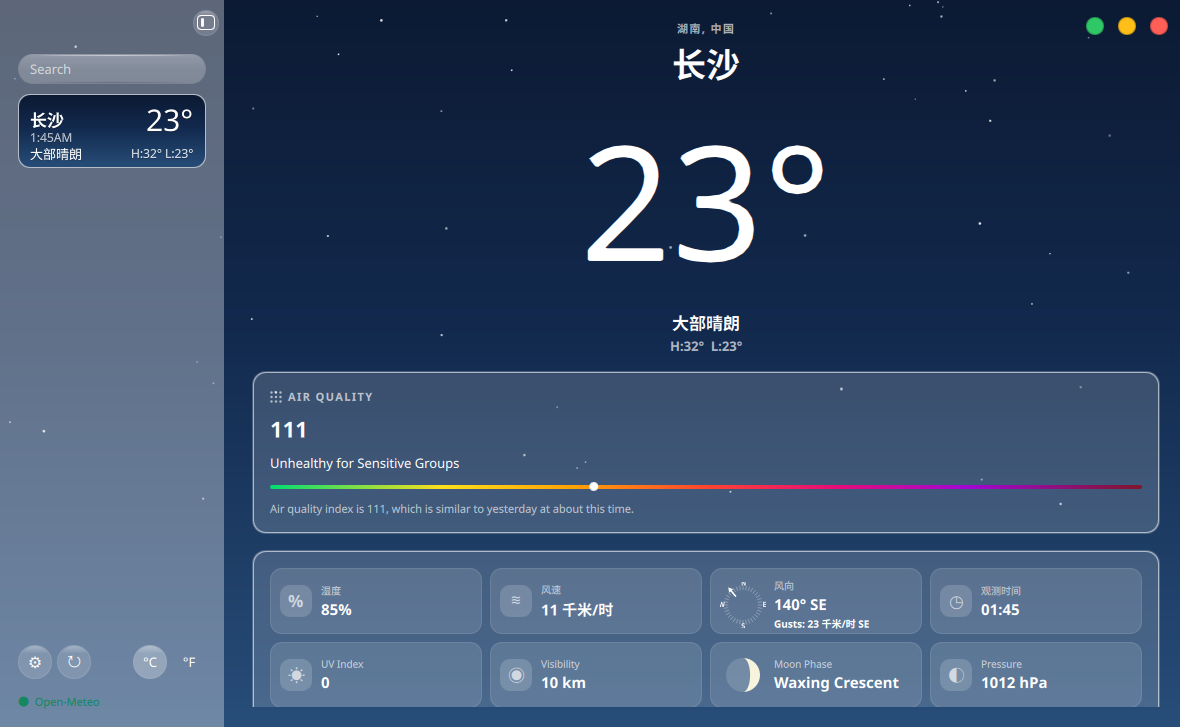
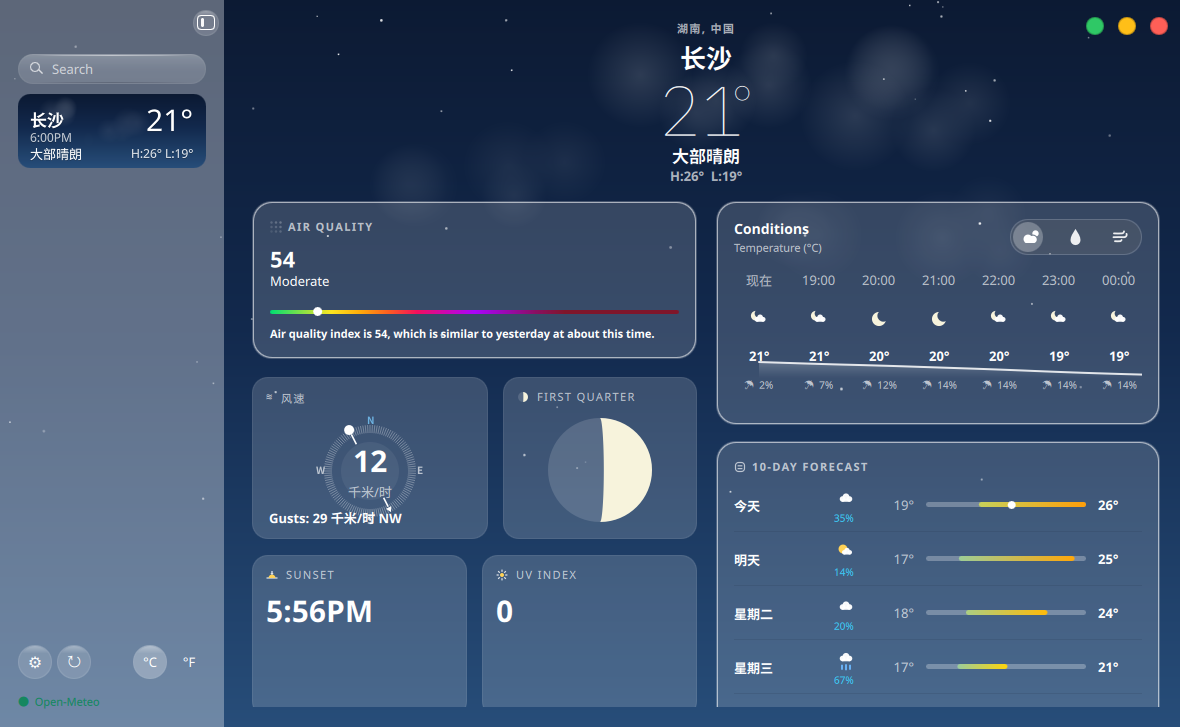
docs: round 41 进度与截图

diff --git a/docs/ui-weather/LEDGER.md b/docs/ui-weather/LEDGER.md
@@ -4,6 +4,10 @@
 参考实测色（814×498 主图采样）：天空 `#2961a7→#1469bc→#538ec9`（上→下，含云照片）；Conditions 卡 `#0057b2`；hero 文本 `#ffffff`；10天条渐变 青→黄→橙。
 
 ## 已改
+- **10 天卡头部→首行间距 −4px（本轮，前端，零 Go/C++/shared 改动，仍差 11 残差 b 收口）**：仍差 11 记载"头部→Today +4px"。本轮同口径复测（字体 1:1 依据：双方头部 caps 墨高均 8px，ipad 参考与截图同尺）：ref-ipad-small（1024×702）10 天卡（x264-546）头部墨底 y328 → Today 墨顶 y357 = **29px ink gap**；我方 patrol-1792318394（过体检闸 ✅）头部墨底 y471 → 今天墨顶 y505 = **33px**，+4px 残差确证。`apps/weather/qml/Main.qml:3012` dailyCard 头部 RowLayout `Layout.bottomMargin: 8→4`（注释 :3006 标明两侧实测依据）；spacing 6/fillWidth/visible/Canvas/Label/行 delegate/hover/渐变条零改动。
+  **实测**（本轮二进制截图 tmp/shots/hdrgap-1792318597.png 过体检闸 ✅ 1180×727，dev env + KOS_SCREENSHOT_DELAY_MS=2500）：今天墨顶 505→**501 精确位移 −4px**，ink gap 33→**30px**（目标 29，Δ1px 系 CJK 字形 AA 读数）；头部带 y462-471 自身零位移；目视 /tmp/z-hdrgap.png：头部与今天行间距收紧、无裁切无重叠。
+  **回归**（vs 改前 patrol-1792318394，2px 步进 diff>24）：变化 2097 采样**全部**落 10 天卡内 (717,441)-(1158,727)（行块整体 −4px 平移本体），卡外仅 9 稀疏采样（星空/时钟已知时变噪声）。qmllint 0 error（21 warning = 基线）。测试 Qt 6/6 绿、go test ok。本轮无动效改动，无帧差义务。
+  **残差（勘误仍差 11 残差 a）**：a) ~~头部 inset −7px~~ **记载符号存疑、本轮复测不成立**——ipad 参考头部 glyph 左 inset **12px**（x276−卡缘 x264）vs 我方 **18px**（x735−卡缘 x717），我方反而**更深** 6px；但参考中头部 glyph(12) 与行文字(10) 本就同列对齐，我方头部(18) 与今天行(18) 也同列对齐——单改头部 inset 会破坏对齐，需整卡 padding 联动（非原子，记此处不再单独立轮）；b) 字距总宽 +28px 系字体族差异（无 SF Pro），不动。
 - **侧栏城市卡补程序化云纹理（本轮，前端，零 Go/C++/shared/翻译改动，巡检轮）**：巡检截图（tmp/shots/patrol-1792317724.png 过体检闸 ✅ 1180×727）对照 ref-main 发现侧栏残差——参考 tile-sidebar（440×996）5 张城市卡**全部**带天气质感天空背景（Cupertino/Chicago 日间白云团、Antarctica 灰蓝、Cape Town 紫暮、Mumbai 夜空暗纹理；Pillow 采样卡面 cupertino_top (142,155,179)→bot (193,214,232)、mumbai (36,40,66)→(47,52,80)），我方卡是纯三段渐变无纹理。`apps/weather/qml/Main.qml:272-297` 新增 root 函数 `sidebarCardClouds(cardIndex, isDay)`（mulberry32(20261022+index*97) 固定种子按卡号生成 3 朵云×4 puff，cloudWidth 70-130/height=width×0.3，透明度 isDay ? 0.32−i×0.07 : 0.13−i×0.07）；:1110 delegate 新增 `required property int index` + `cardClouds` 绑定；:1148-1200 background Rectangle（radius 12/渐变/border 零改动）内新增唯一子项 `cardSkyTexture`（clip + Accessible.ignored，Repeater+Canvas 径向渐变 puff 与 nightClearCloudLayer :668-708 同款画法）。
   **门控裁定（首轮取证发现）**：首版门控 `isDay ? code>=2 : true` 在当前场景（code 1 大部晴朗）下纹理不渲染（改前后两帧 diff 全窗 maxdiff=2 = 纹理缺席实证；卡上"绒团"实为 21° 文字与渐变，(150,110)=(227,236,245) 系文字 AA）。因参考 5 卡全部有质感（含夜间）且主窗先例晴日也有云带，改为**恒显**（删 cardCloudy，Item 默认可见）。
   **实测**（本轮二进制截图 tmp/shots/cardcloud2-1792318220.png 过体检闸 ✅ 1180×727，dev env + KOS_SCREENSHOT_DELAY_MS=2500；此时段服务已翻夜态，顺带验证夜分支）：夜卡 (14,32,63) 上云峰 (49,65,91) = **Δ+35/+33/+28**（白@~0.14，行 110 逐 6px 剖面实测，文字 255 像素剔除）——与 ref Mumbai 卡纹理幅度（mumbai mid→bot Δ~11-14）同档略强；目视 /tmp/z-post2-card.png 3x：淡云在场、文字可读、无硬边；整窗夜景（星空/夜卡/夜空淡云）健康。日分支透明度更高（0.32 档）本时段未实拍（服务已翻夜），记外推待确认。
@@ -324,7 +328,7 @@
 8. ~~指标瓦片（白@0.12）与同级全宽卡（AQ/10 天，白@0.16）填充 alpha 不一致~~（**已做**，见已改——瓦片统一到 0.16/0.22、符号盒 0.20 保 +0.04 关系；日景材质方向差异另见外推待确认首条（**已执行**，见已改"昼夜分材质"））。
 9. ~~B.4 卡片 hover 只剩 10 天卡一处（指标容器实例随本轮容器移除删去）；瓦片级 hover（玻璃高光+抬升移到每块瓦片）为候选补法~~（**已做**，见已改——hover 同参数族已加到 WeatherMetric 组件 6 瓦 + directionTile/moonPhaseTile/sunsetTile，带帧差 MAE 证据；真实鼠标悬停未在真机点过，见外推待确认）。
 10. AQ 卡 rating 邻域残差（视觉冲击低，见已改“数字→rating 间距”条注）：rating cap 高 9px vs ref 折算 10.2（1px AA 内）；~~rating→渐变条 ink gap 残差~~（**已做**，见已改“+7px”——cap 顶口径 25→32px，目标 32.1；旧“~3px 残差”记载系 line-box 混算低估，本轮两口径复测推翻）。逐小时区“逐小时”区头+分段控件在卡外（ref 是 Conditions 卡内右上），系结构性版式适配，是否贴回卡内待用户裁定。
-11. ~~"7 天"区头仍是裸标签~~（**已做**，见已改"10 天卡头部移入卡内"——旧条目"ref-main (515,325) 起"依据被本轮复测推翻，实以 ref-ipad-small 为准；残差：头部 inset −7px / 头部→Today +4px / 字距总宽 +28px，均系既有 padding 与字体族差异，视觉冲击低）。
+11. ~~"7 天"区头仍是裸标签~~（**已做**，见已改"10 天卡头部移入卡内"——旧条目"ref-main (515,325) 起"依据被本轮复测推翻，实以 ref-ipad-small 为准；残差：~~头部→Today +4px~~（**已做**，见已改"10 天卡头部→首行间距 −4px"——ink gap 33→30px vs 参考 29）+ 头部 inset（勘误见该条残差 a：记载符号存疑，单改破对齐不立轮）+ 字距总宽 +28px（字体族差异，不动），视觉冲击低）。
 12. 瓦片 glyph 与头部文字的排布残差（视觉冲击低，见已改“glyph 去白方块底”条注）：ref 卡 glyph 与头部行内联（同基线、小尺寸），我方 glyph 垂直居中于左侧 32×32 区、头部/值在右列——瓦片化适配布局，去盒后已进一步贴近 ref，但排布形态仍未对齐；是否把 glyph 改为头部行内联待裁定（会动 6 瓦布局，非原子）。
 13. ~~**瓦片圆角偏小**~~（**已做**，见已改首条——weather 内 `tileRadius: 16` 显式覆盖 4 瓦站点，shared 未动；实测校准半径 ≈15±1 vs ref 15.3）。
 14. **空态残差（视觉冲击低，仅在无数据场景可见，见已改"空态文字可读性修复"条残差）**：a) ~~空态下 AQ 卡仍显示 "0"+全宽渐变条+白点+"similar to yesterday" 静态文案~~（**已做**，见已改"AQ 卡空态假数据门控"——hasAqi 门控数字/渐变条/白点/说明，空态卡只剩头部；"similar to yesterday" 有数据时仍显示，见外推待确认）；b) Conditions 卡空态卡体全空（逐小时区无空态提示）；c) 空态 glyph 保持 accent 淡蓝。参考图无空态形态，b)/c) 是否处理待用户裁定；a) 与文字可读性本体已修。
@@ -342,7 +346,7 @@
 - **SUNSET 大方卡底部内容无参考**：ref-main 的 SUNSET 卡被窗底裁切、只见头部+大号时间，Apple 原生卡下半（常见是日出/日落进度弧）不可见——本轮卡高 162 对齐 WIND/月相、底部留空带（~90px），未发明底部内容。若日后拿到完整参考卡需复核补形态（数据 `daily[0].sunrise` 已有，可支撑日出行/进度弧）。大号时间字号 30px 系与 WIND 速度数字同量级外推（ref 字形 14.4px@814 实测、墨高比自洽）；mini 日落 glyph 为旧 46px sunCanvas 的 12px 缩比手绘（Apple 原生 glyph 形态不可采样）。
 - **月相大卡无 Moonrise 底行**：ref 月相卡底部有 "Moonrise: 9:48PM" 行（ref-main y424-431 实测），但快照/Open-Meteo current 无月出月落字段，本轮按"参考图没有的数据不发明"未做——盘底→卡底留 17px 空带（即原底行位置）。若要补需后端本地天文计算（日出日落 Open-Meteo daily 已有，月出需自行算，工程量大）或另找数据源，待用户裁定优先级。月亮盘为程序化平涂相位（cream #f7f3dc + 白 0.14 暗面），非参考照片质感（陨石坑纹理）——既有外推延续。
 - **popup Gusts 副行观感未实拍 + UV/Visibility/moonPhase 无处安放**：shell 天气弹窗跑在 Quickshell Wayland 层（AnimatedPopupWindow），无法独立离屏截图——本轮按 shell 轮先例（WeatherService moonPhase 轮）以静态契约测试为证，Gusts 副行在真机弹窗中的观感（副行是否与 divider 贴得太近、"Gusts: 22 km/h" 本地化串宽度是否溢出列宽）待真机复核。**用户裁定 3 的"复用现有列"已尽力执行**，但 popup 仅 336px：UV Index（~50px 列）、Visibility（~55px 列）、Moon Phase（"Waxing Crescent" 长串 ~90px）三个已接字段没有语义匹配的既有列可复用、加列必挤掉状态文本——若用户要 popup 展示这三者需裁定：a) 加高/加宽 popup；b) 底行换两行布局（即"新增列"的变体，违裁定 3 原文）；c) 放弃。airQuality service 侧是原始对象（无显示串属性），popup 无 AQ 列可复用，同样待裁定。
-- **10 天卡头部文案 "10-DAY FORECAST" 照参考，数据实为 7 天**：schema 限额 7 天（Open-Meteo 拉取上限），卡内只有 7 行却标 "10-DAY FORECAST" 系参考措辞照抄（Conditions 卡"照抄参考句式"先例）；中文环境显示 "10 天预报" 同样超行数。若用户裁定改为 "7-Day Forecast"/"7 天预报" 需同步 Accessible.name。另：头部色沿用夜景 skyTextMuted（ref 日景亮蓝 ~(116,189,255)，次级文本角色裁定先例）；ref-main 无此头部可对照（卡被裁），头部行距参数（bottomMargin 8 / spacing 6）系按 ipad 参考折算+KosCard 既有 padding 的近似，inset −7px / 头部→Today +4px 残差记录在已改条目。
+- **10 天卡头部文案 "10-DAY FORECAST" 照参考，数据实为 7 天**：schema 限额 7 天（Open-Meteo 拉取上限），卡内只有 7 行却标 "10-DAY FORECAST" 系参考措辞照抄（Conditions 卡"照抄参考句式"先例）；中文环境显示 "10 天预报" 同样超行数。若用户裁定改为 "7-Day Forecast"/"7 天预报" 需同步 Accessible.name。另：头部色沿用夜景 skyTextMuted（ref 日景亮蓝 ~(116,189,255)，次级文本角色裁定先例）；ref-main 无此头部可对照（卡被裁），头部行距参数（bottomMargin 4（2026-10-18 由 8 校准）/ spacing 6）系按 ipad 参考折算+KosCard 既有 padding 的近似，头部→Today 残差已收口（见已改"10 天卡头部→首行间距 −4px"）、inset 勘误见该条残差 a。
 - **侧栏收起态外观无参考**：Apple 天气没有侧栏收起概念，收起轨道（~33px 半透明深海军蓝叠天空、仅浮一枚开关钮）全系沿用本项目 sidebarSurface/KosSidebarToggle 族外推；收起/展开动画时长与缓动未测（--screenshot 650ms 帧落在动画中段的事实说明动画 >650ms 起步或持续，非缺陷但未被量化）；真机 Ctrl+B 切换手感未复核。若后续要打磨收起态（如轨道加玻璃高光、开关钮居中规则）需用户先裁定目标形态。
 - ~~**卡材质方向与参考相反（昼夜主题差异，待校准）**~~（**已裁定并执行**，见已改"内容层卡面昼夜分材质"——白天内容卡改 α0.30 深蓝玻璃 (0,96,210)、夜间维持白玻璃；B 通道微升与白天其他天气码取证见该条注）
 - ~~**指标容器卡去 chrome 后瓦片 0.12 与全宽卡 0.16 并置**~~（**已裁定并执行**，见已改——统一到 0.16/0.22，ref 所有卡同材质支持该方向；符号盒 0.20 保 +0.04 相对对比系内部关系延续，非参考实测）。
